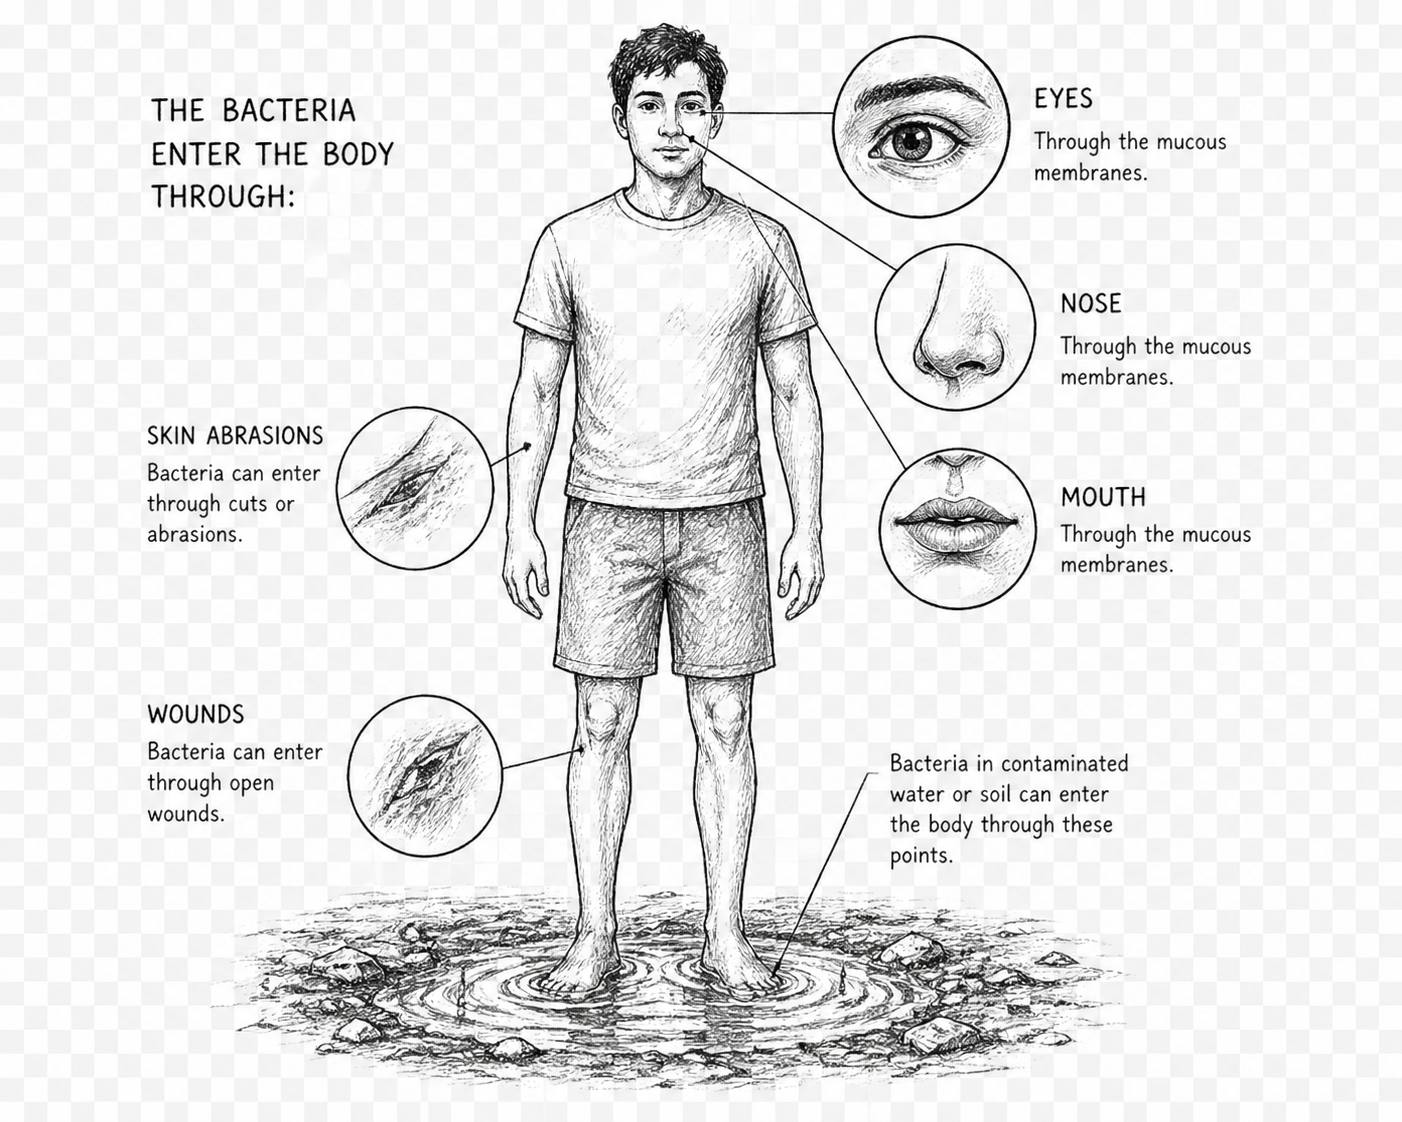
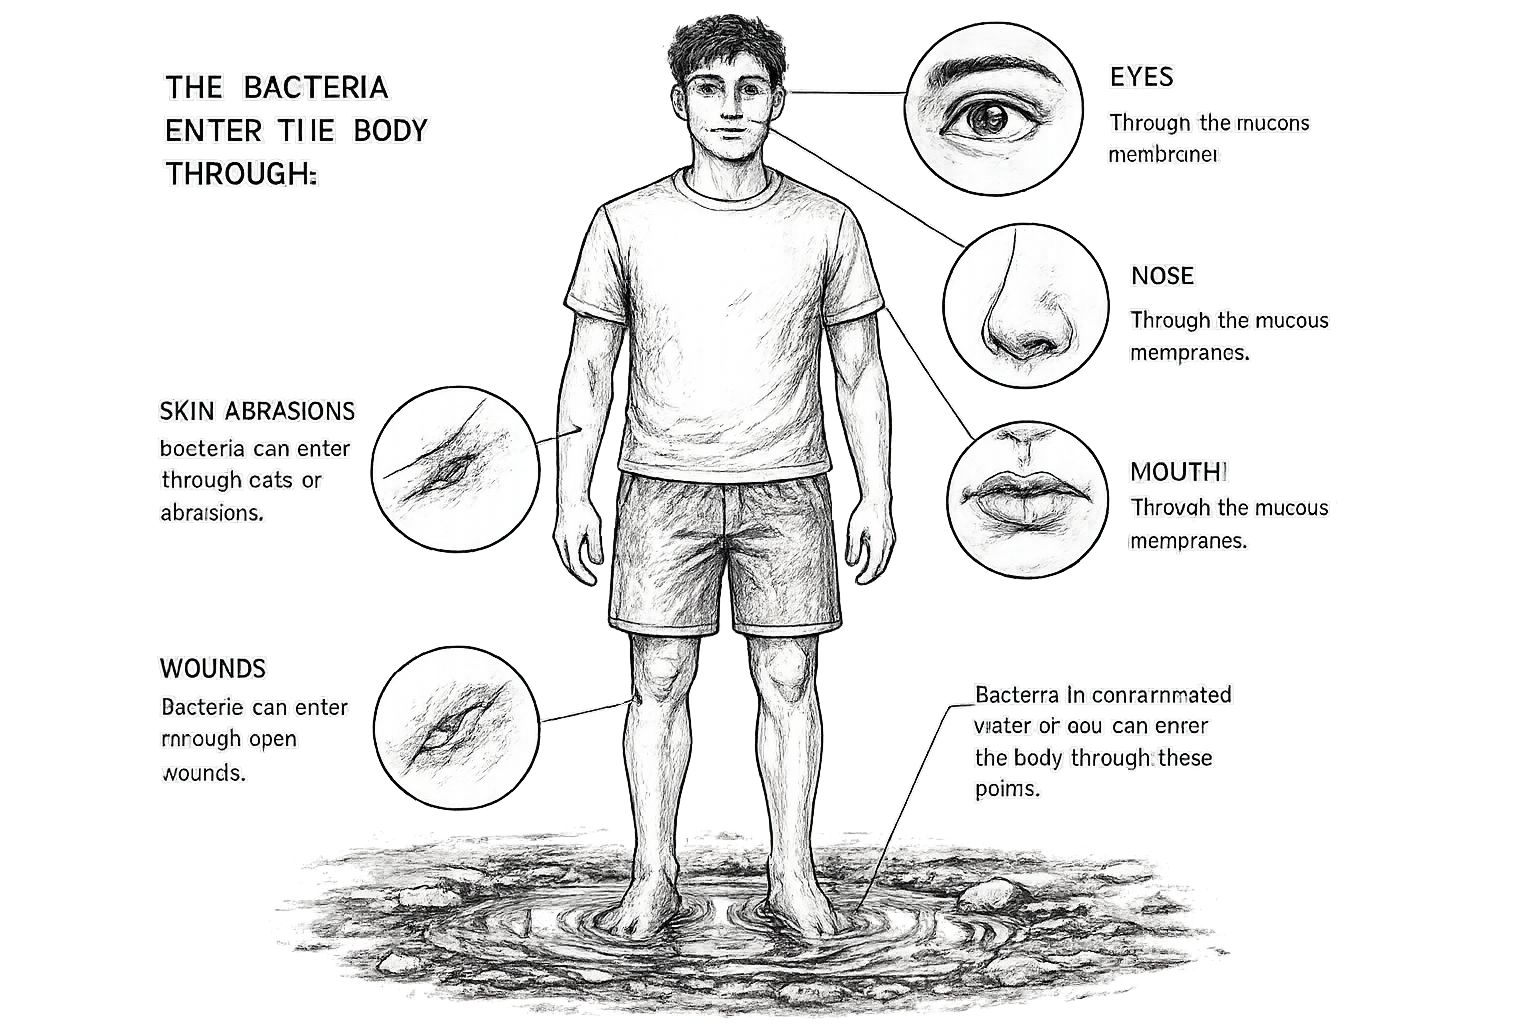
new 5

Changed region(s): [[0.092, 0.0, 0.8894, 1.0], [0.092, 0.0625, 0.276, 0.1875]]

diff --git a/src/lib/components/HowItSpreads.svelte b/src/lib/components/HowItSpreads.svelte
@@ -85,6 +85,15 @@
   let activeStep = 0;
   let showCycle = false;
 
+  // Precomputed raindrop data — step 3 "Rain & Soil" effect
+  const raindrops = Array.from({ length: 55 }, () => ({
+    left:     parseFloat((Math.random() * 100).toFixed(1)),
+    delay:    parseFloat((-(Math.random() * 2.5)).toFixed(2)),
+    duration: parseFloat((0.4 + Math.random() * 0.6).toFixed(2)),
+    opacity:  parseFloat((0.2 + Math.random() * 0.45).toFixed(2)),
+    height:   8 + Math.round(Math.random() * 16)
+  }));
+
   let stepEls: (HTMLElement | null)[] = new Array(steps.length).fill(null);
   let cycleEl: HTMLElement | null = null;
   let observer: IntersectionObserver | null = null;
@@ -141,7 +150,17 @@
           </div>
 
           <!-- Inline image: only shown on mobile -->
-          <div class="step-img-mobile" aria-hidden="true">
+          <div class="step-img-mobile" class:rain-host={i === 2} aria-hidden="true">
+            {#if i === 2}
+              <div class="rain-overlay" aria-hidden="true">
+                {#each raindrops as drop, ri (ri)}
+                  <span
+                    class="raindrop"
+                    style="left:{drop.left}%; animation-delay:{drop.delay}s; animation-duration:{drop.duration}s; opacity:{drop.opacity}; height:{drop.height}px"
+                  ></span>
+                {/each}
+              </div>
+            {/if}
             <img src={step.image} alt={step.alt} loading="lazy" />
           </div>
 
@@ -153,6 +172,18 @@
          because the same images appear inline on mobile       -->
     <div class="spreads-sticky-col" aria-hidden="true">
       <div class="spreads-sticky">
+
+        <!-- Rain overlay — only visible on step 3 (Rain & Soil) -->
+        {#if activeStep === 2}
+          <div class="rain-overlay" aria-hidden="true" transition:fade={{ duration: 500 }}>
+            {#each raindrops as drop, ri (ri)}
+              <span
+                class="raindrop"
+                style="left:{drop.left}%; animation-delay:{drop.delay}s; animation-duration:{drop.duration}s; opacity:{drop.opacity}; height:{drop.height}px"
+              ></span>
+            {/each}
+          </div>
+        {/if}
 
         <!-- Image fades on activeStep change via Svelte {#key} -->
         {#key activeStep}
@@ -477,6 +508,42 @@
     /* Push arrow down to align with image centers */
     margin-bottom: 1.8rem;
     flex-shrink: 0;
+  }
+
+  /* ── Rain effect (Step 3: Rain & Soil) ─────────────────── */
+  .rain-overlay {
+    position: absolute;
+    inset: 0;
+    overflow: hidden;
+    pointer-events: none;
+    z-index: 3;
+  }
+
+  .raindrop {
+    position: absolute;
+    top: -5%;
+    width: 1.5px;
+    background: linear-gradient(
+      to bottom,
+      transparent,
+      rgba(140, 210, 255, 0.75) 30%,
+      rgba(100, 180, 255, 0.55) 70%,
+      transparent
+    );
+    border-radius: 0 0 2px 2px;
+    animation: rainfall linear infinite;
+  }
+
+  @keyframes rainfall {
+    from { transform: rotate(8deg) translateY(0); }
+    to   { transform: rotate(8deg) translateY(130vh); }
+  }
+
+  /* Mobile rain host needs a positioning context */
+  .rain-host {
+    position: relative;
+    overflow: hidden;
+    border-radius: 8px;
   }
 
   /* ── Mobile layout ──────────────────────────────────────── */
